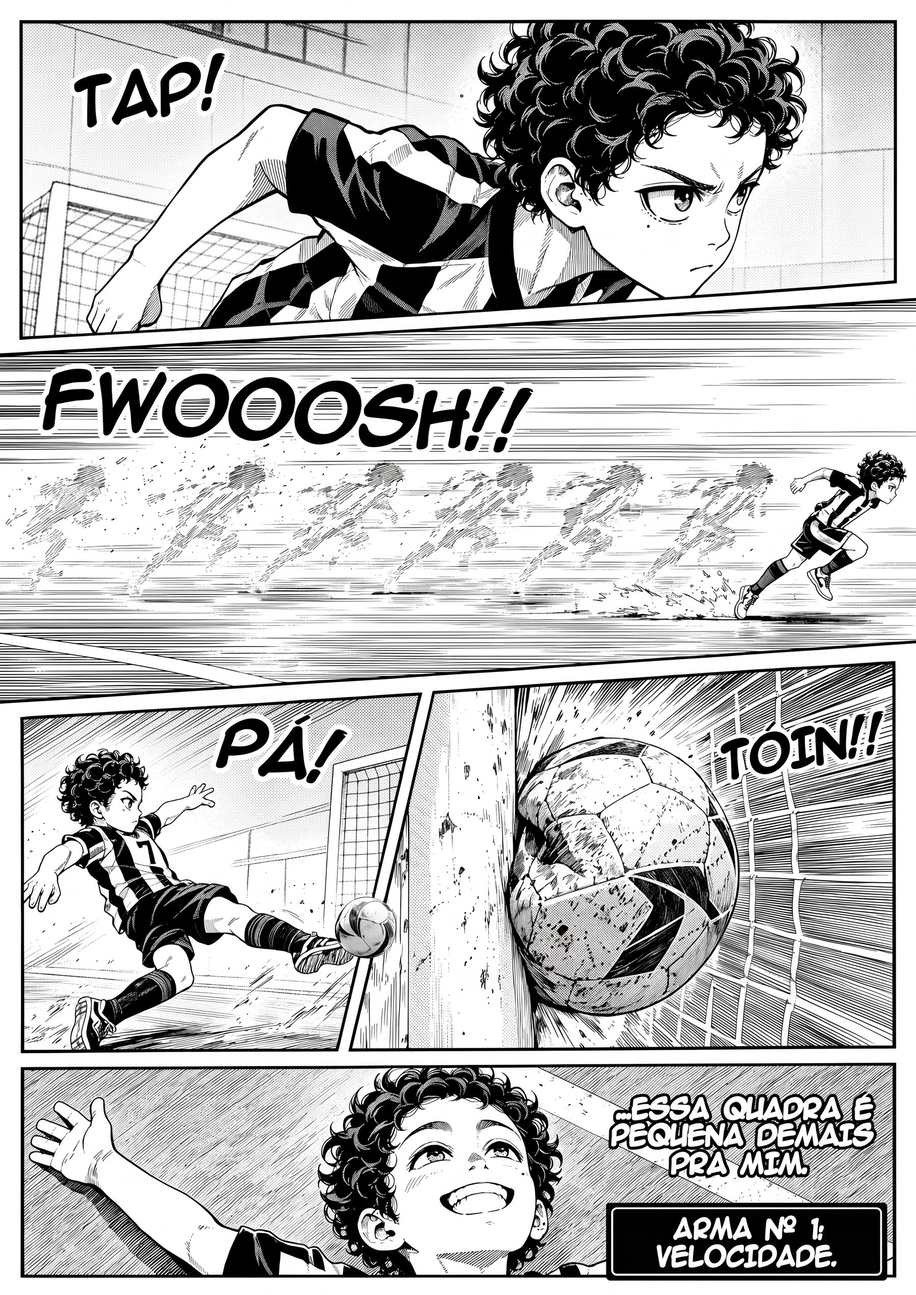
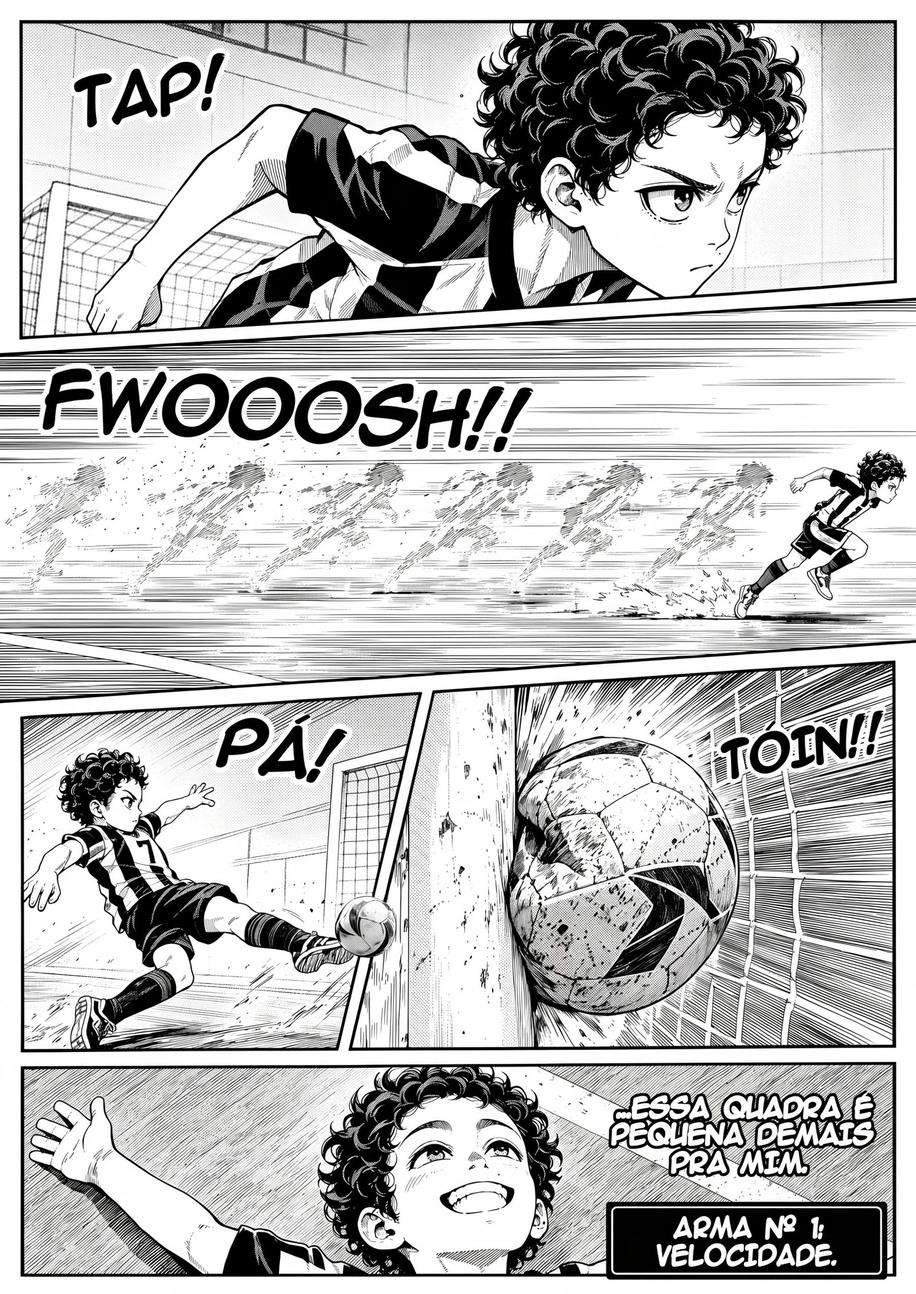
Cap 1: página 7 corrigida
Claude-Session: https://claude.ai/code/session_013Dq8zGe9YyyowUvAYHhbYY

diff --git a/index.html b/index.html
@@ -7,7 +7,7 @@
 <meta name="apple-mobile-web-app-capable" content="yes">
 <meta name="apple-mobile-web-app-status-bar-style" content="default">
 <title>Biblioteca</title>
-<link rel="stylesheet" href="style.css?v=4">
+<link rel="stylesheet" href="style.css?v=5">
 </head>
 <body>
 
@@ -58,7 +58,7 @@
 <!-- Filtro de conforto ocular (cobre tudo, sem bloquear cliques) -->
 <div id="eye" aria-hidden="true"></div>
 
-<script src="content.js?v=4"></script>
-<script src="app.js?v=4"></script>
+<script src="content.js?v=5"></script>
+<script src="app.js?v=5"></script>
 </body>
 </html>

diff --git a/content.js b/content.js
@@ -28,7 +28,7 @@ window.LIBRARY = [
         number: 1,
         title: 'O Início nas Quadras',
         cover: 'images/mark/cap1/capa.jpg',
-        pages: seq('images/mark/cap1/', 7, 'jpg')
+        pages: seq('images/mark/cap1/', 7, 'jpg?v=5')
       }
     ]
   }
